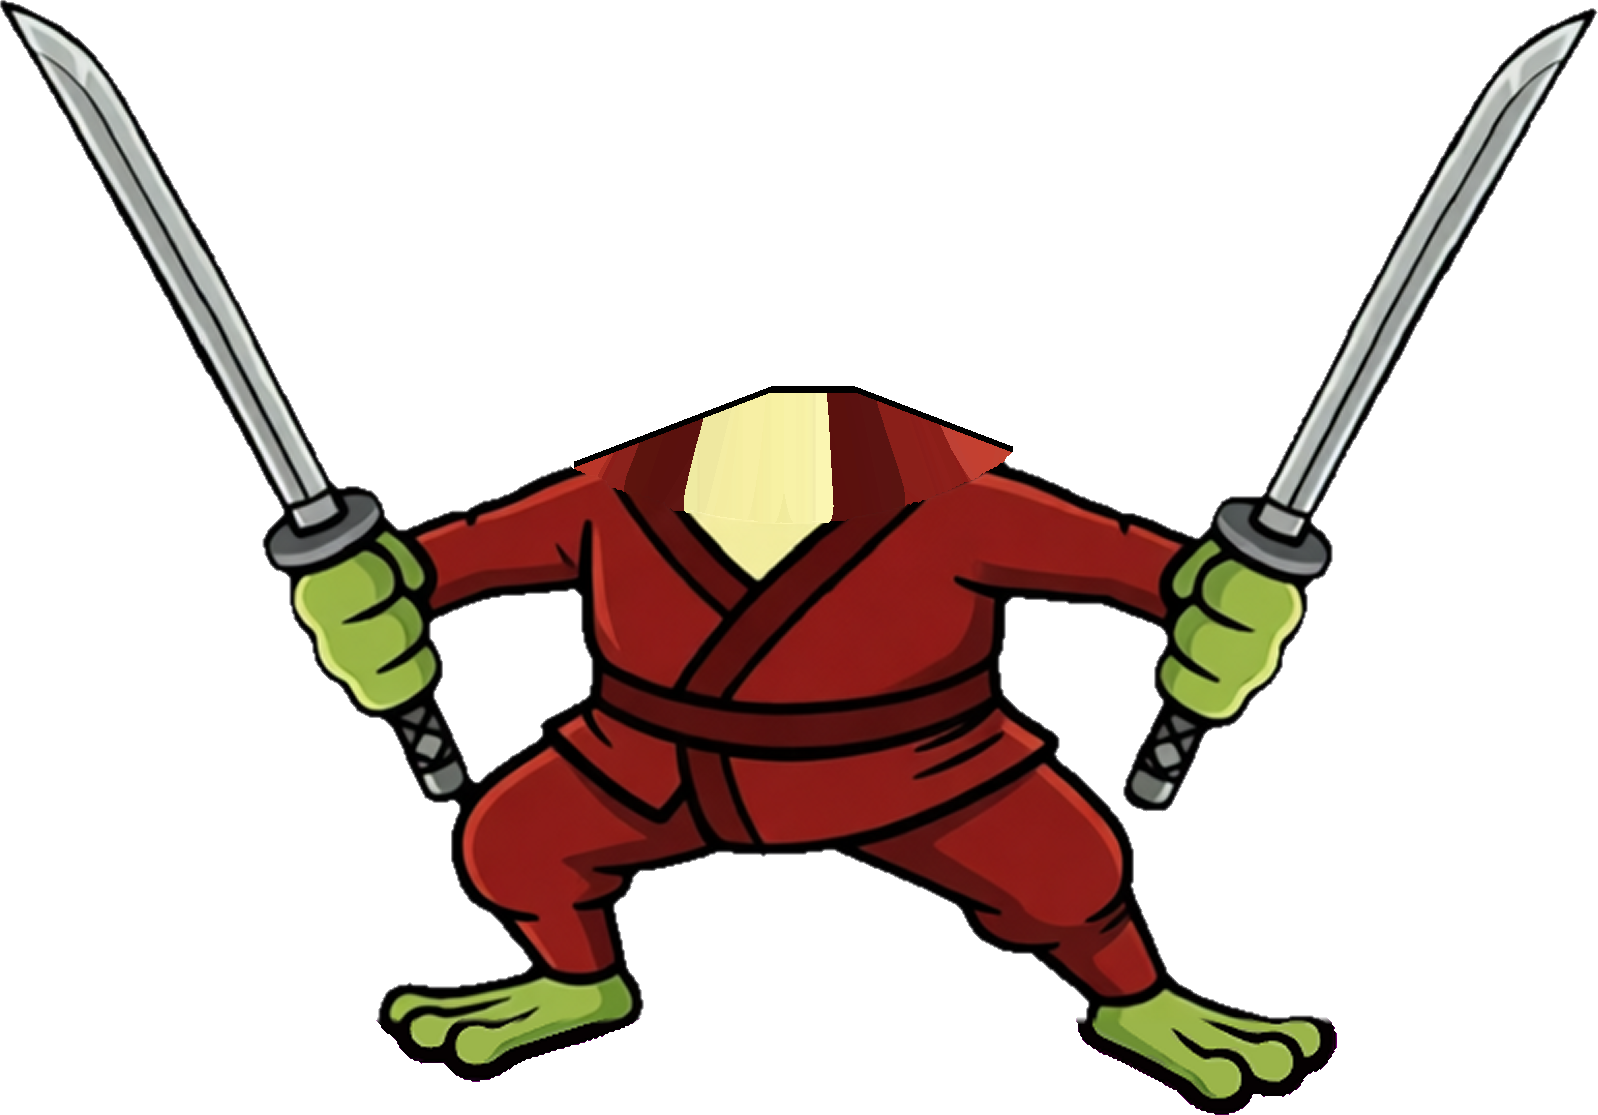
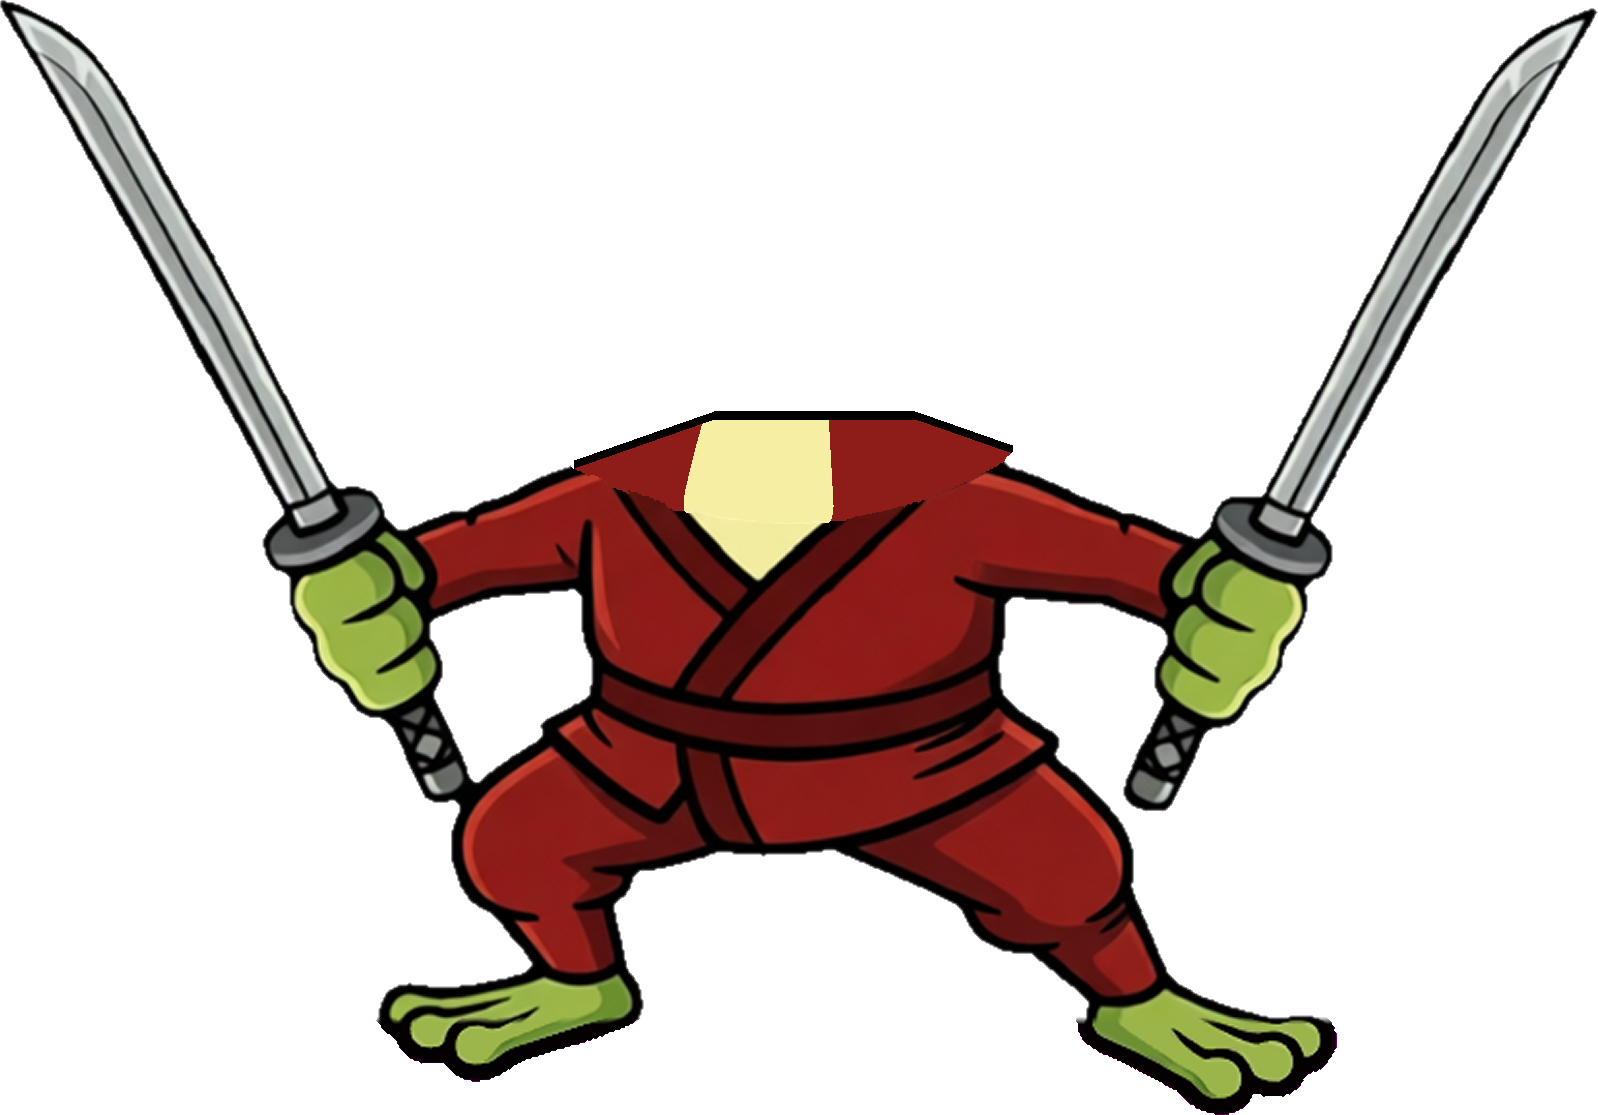
Frog Ninja: under the head the body is plain robe red and chest cream (no carried-up highlight or lapel patch beside the chin)

Changed region(s): [[0.368, 0.3354, 0.6439, 0.4879]]

diff --git a/static/js/views/frog-game.js b/static/js/views/frog-game.js
@@ -1193,7 +1193,7 @@ function drawLaptop(ctx, b, lw) {
 // The standing frog, painted (Marek's pick, 2026-11-24): body, arms, fists and katanas as one picture, standing ready and
 // pressed (the wind-up); the rig's head and tails go on top. x, y, w, h: where it sits in the frog's units. ?stand=0: the rig.
 // STAND_ART:begin (written by design/frog/tools/art_build_stand.py: do not edit by hand)
-const STAND_ART = { ready: { url: '/img/game/frog/stand-ready.675491d6ce.webp', x: -596.0, y: -532.0, w: 3196.0, h: 2230.0 }, wind: { url: '/img/game/frog/stand-wind.819ec6a0ec.webp', x: -1142.0, y: -176.0, w: 4274.0, h: 1874.0 }, tired: { url: '/img/game/frog/stand-tired.30f2cab0ab.webp', x: -1234.0, y: 252.0, w: 4466.0, h: 1446.0 }, stun: { url: '/img/game/frog/stand-stun.f716de56f9.webp', x: -580.0, y: -306.0, w: 3150.0, h: 2004.0 } };
+const STAND_ART = { ready: { url: '/img/game/frog/stand-ready.45a3b42cf4.webp', x: -596.0, y: -532.0, w: 3196.0, h: 2230.0 }, wind: { url: '/img/game/frog/stand-wind.b75cb53d83.webp', x: -1142.0, y: -176.0, w: 4274.0, h: 1874.0 }, tired: { url: '/img/game/frog/stand-tired.10eeb32de1.webp', x: -1234.0, y: 302.0, w: 4466.0, h: 1396.0 }, stun: { url: '/img/game/frog/stand-stun.675e243aad.webp', x: -580.0, y: -306.0, w: 3150.0, h: 2004.0 } };
 // STAND_ART:end
 const STAND_ON = typeof location === 'undefined' || !/[?&]stand=0(&|$)/.test(location.search);
 // The frog's splash when it goes into the sea at the end of a run, painted (built by art_build_splash.py).

diff --git a/design/frog/tools/art_stand_cut.py b/design/frog/tools/art_stand_cut.py
@@ -66,8 +66,8 @@ for state, gen in (('ready', 'd-6'), ('wind', 'w-3'), ('tired', 'tired-2'), ('st
     def slope(x0, x1):
         k = (cols >= x0) & (cols <= x1) & (top < RH)
         return float(np.polyfit(cols[k], top[k], 1)[0]) if k.sum() > 8 else 0.0
-    sl = float(np.clip(slope(xl - 45, xl - 3), -0.7, 0)); sr = float(np.clip(slope(xr + 3, xr + 45), 0, 0.7))
-    cap = min(yl, yr) - 60
+    sl = float(np.clip(slope(xl - 45, xl - 3), -0.35, 0)); sr = float(np.clip(slope(xr + 3, xr + 45), 0, 0.35))
+    cap = min(yl, yr) - 34
     line = np.maximum(np.maximum(yl + sl * (cols - xl), yr + sr * (cols - xr)), cap)[None, :]; rows_ = np.arange(RH)[:, None]
     inkish = PA[..., :3].max(-1) < 70
     near = ndimage.binary_dilation(M, iterations=10)
@@ -80,8 +80,13 @@ for state, gen in (('ready', 'd-6'), ('wind', 'w-3'), ('tired', 'tired-2'), ('st
     seam = ndimage.binary_dilation(erase, iterations=2) & ~erase & (rows_ > headmid) & near       # (the soft pixels along the cut would stay as a hairline)
     erase = erase | seam; PA[seam, 3] = 0
     fill = erase & (rows_ > line + 3) & (np.arange(RW)[None, :] >= xl) & (np.arange(RW)[None, :] <= xr)
-    PA[fill, :3] = PA[iy[fill], ix[fill], :3]; PA[fill, 3] = 255
-    edge = erase & (np.abs(rows_ - line) <= 3) & (np.arange(RW)[None, :] >= xl) & (np.arange(RW)[None, :] <= xr)
+    # two plain colours only: the chest's cream where the chest is nearest, the robe's own red everywhere else (a carried-up
+    # highlight or lapel showed as an odd patch beside the chin when the head turned; Marek, 2026-11-24)
+    srcc = PA[iy[fill], ix[fill], :3].astype(int); creamy = (srcc[:, 0] > 190) & (srcc[:, 1] > 190)
+    rb = PA[..., :3][kept & (PA[..., 0] > 120) & (PA[..., 1] < 70) & (PA[..., 2] < 70)]; robe = np.median(rb, axis=0)
+    cr = srcc[creamy]; cream = np.median(cr, axis=0) if len(cr) else robe
+    PA[fill, :3] = np.where(creamy[:, None], cream, robe).astype(np.uint8); PA[fill, 3] = 255
+    edge = erase & (np.abs(rows_ - line) <= 4) & (np.arange(RW)[None, :] >= xl) & (np.arange(RW)[None, :] <= xr)
     PA[edge, :3] = 0; PA[edge, 3] = 255
     # soften the cut edge under the head a touch is not needed: the head covers it
     # the feet are the rig's own (the redrawn toes sat a little off the post's edge): from the ankles down, blended over a few rows
